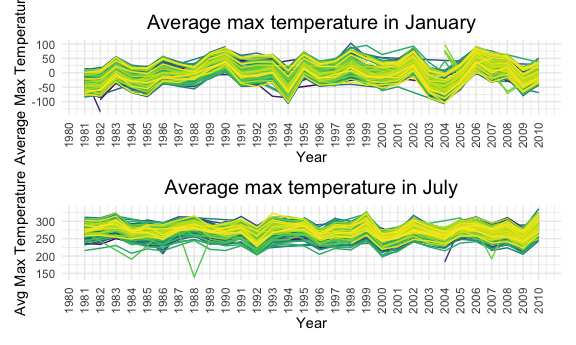
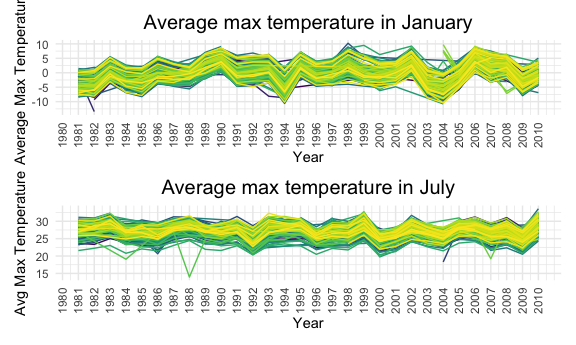
revision -- divide tmin and tmax by 10

diff --git a/p8105_hw3_km3624.md b/p8105_hw3_km3624.md
@@ -215,7 +215,11 @@ ny_noaa_df =
   ) %>%
   mutate(
     tmax = as.numeric(tmax),
-    tmin = as.numeric(tmin)
+    tmin = as.numeric(tmin),
+  ) %>%
+  mutate(
+    tmax = tmax / 10,
+    tmin = tmin / 10
   )
 
 ny_noaa %>%
@@ -303,14 +307,14 @@ year’s average of max is increasing. That is, the average max
 temperature is increasing in the winter case. The structure is like a
 wave-shape, which means the average max temperature fluctuates in these
 30 years. There is an outlier in January of 1982, in which the average
-max temperture is lower than -125.
+max temperture is lower than -12.5.
 
 For July, the average of max temperature is also increasing, and this is
 apparent in 2010. We can also observe that this plot has a relatively
 stable wave-like structure than the previous one. In approximately
 4-year interval, the average max temperature in July will decrease
 relatively sharp in a time period, and there is an outlier in July of
-1988, which is lower than 150.
+1988, which is lower than 15.
 
 Now make a two-panel plot showing tmax vs tmin for the full dataset
 
@@ -336,7 +340,7 @@ temp_compare_plot / snowfall_plot
 <img src="p8105_hw3_km3624_files/figure-gfm/unnamed-chunk-12-1.png" width="90%" />
 
 In the plot comparing tmax and tmin, most data is gathering around hexs
-where the tmax is around 100-200 and tmin is around 150. In the annual
+where the tmax is around 10-20 and tmin is around 15. In the annual
 snowfall plot, we notice that the median and interquatile range is
 approximately same for each year except for 1998, 2004, 2006, 2007, and
 2010. In the plot, there are also some outliers in year 1998, 2006, and
